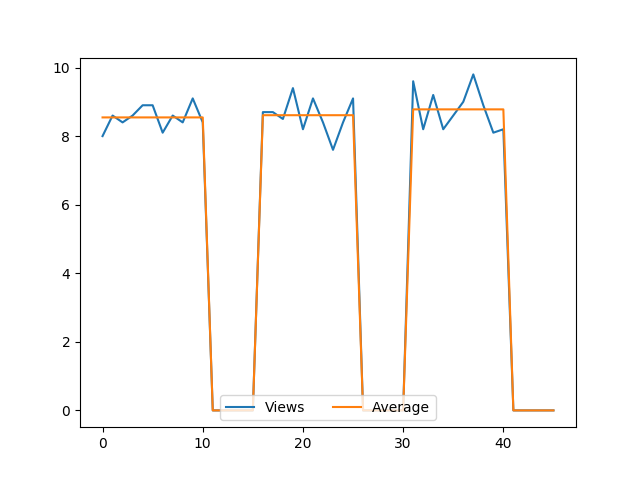
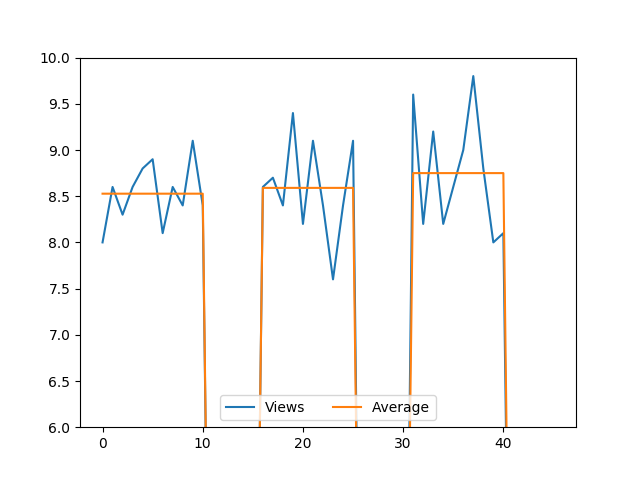
Added more shows, convert plot to relative

diff --git a/scrape_views.py b/scrape_views.py
@@ -204,9 +204,10 @@ def average_plot(views, average, loc='lower center'):
     plt.plot(x, average2, label='Average')
     
     plt.legend(loc=loc, ncol=4)
-    # small = min([i for i in views2 if i!=0])
-    # large = max([i for i in views2 if i!='-'])
-    # plt.ylim(int(small), int(large+1))
+    small = int( min([i for i in views2 if i!=0]) ) - 1
+    large = int( max(views2) ) + 1
+    print small, large
+    plt.ylim(small, large)
     plt.show()
 
 
